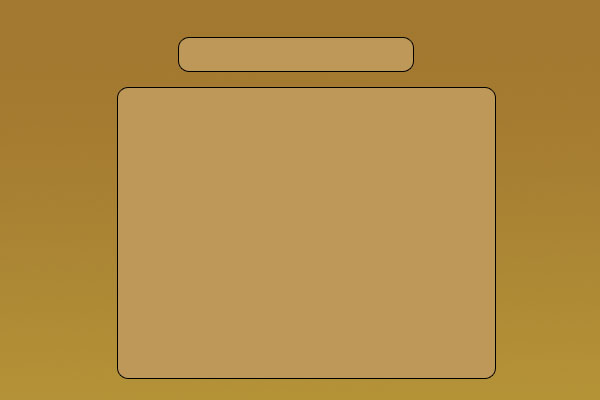
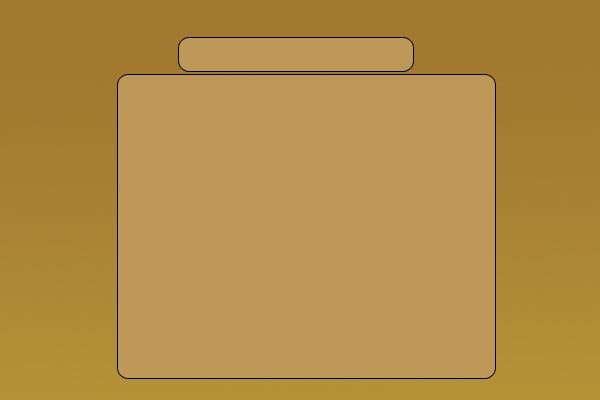
column hints + window expansion
displays the column hints and expanded window to be a bit higher

Changed region(s): [[0.18, 0.18, 0.84, 0.24]]

diff --git a/picrossEngine.py b/picrossEngine.py
@@ -203,9 +203,17 @@ def drawStage(picrossCollection, index):
         tempStartingPointY = (SCREEN_HEIGHT * .3125)
 
     """Here we print the row/column hints to the screen"""
+    """ROW"""
     for i in range(tempStage.length):
             tempStr = str(tempStage.rows[i]).replace("[","").replace("]","").replace(","," ")
             drawLabel(GAME_FONT,HINT_FONT_SIZE,BLACK,tempStr,(tempStartingPointX * .6,(tempStartingPointY+BOX_WIDTH) + (i*BOX_WIDTH)) )
+    """COLUMN"""
+    for i in range(tempStage.length):
+             tempStr = str(tempStage.columns[i]).replace("[","").replace("]","").replace(",","\n").replace(" ","")
+             tempCount = tempStr.count('\n')+1
+             for j in range(tempCount):
+                 tempStrList = tempStr.split('\n')
+                 drawLabel(GAME_FONT,HINT_FONT_SIZE,BLACK,tempStrList[j],((tempStartingPointX+BOX_WIDTH) + (i*BOX_WIDTH),tempStartingPointY *.65 + (j*BOX_WIDTH)))
 
     """TEMPORARY - HERE WE ENABLE THE SQUARES"""
     for i in range(tempStage.length):
